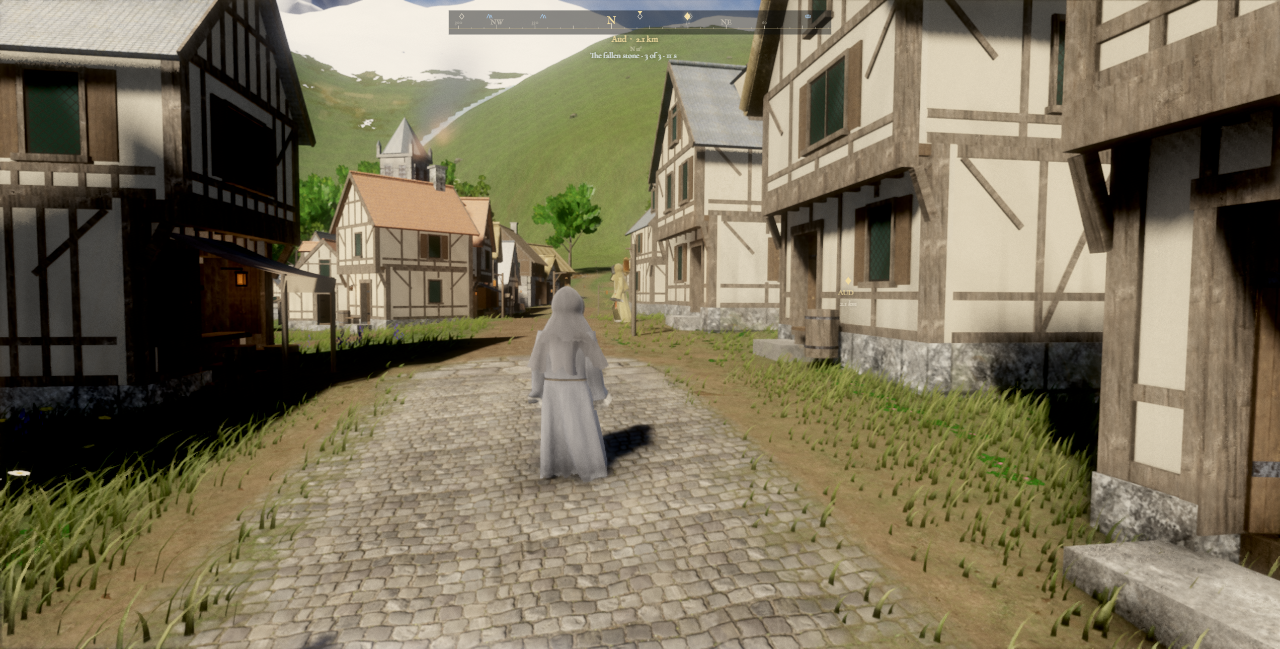
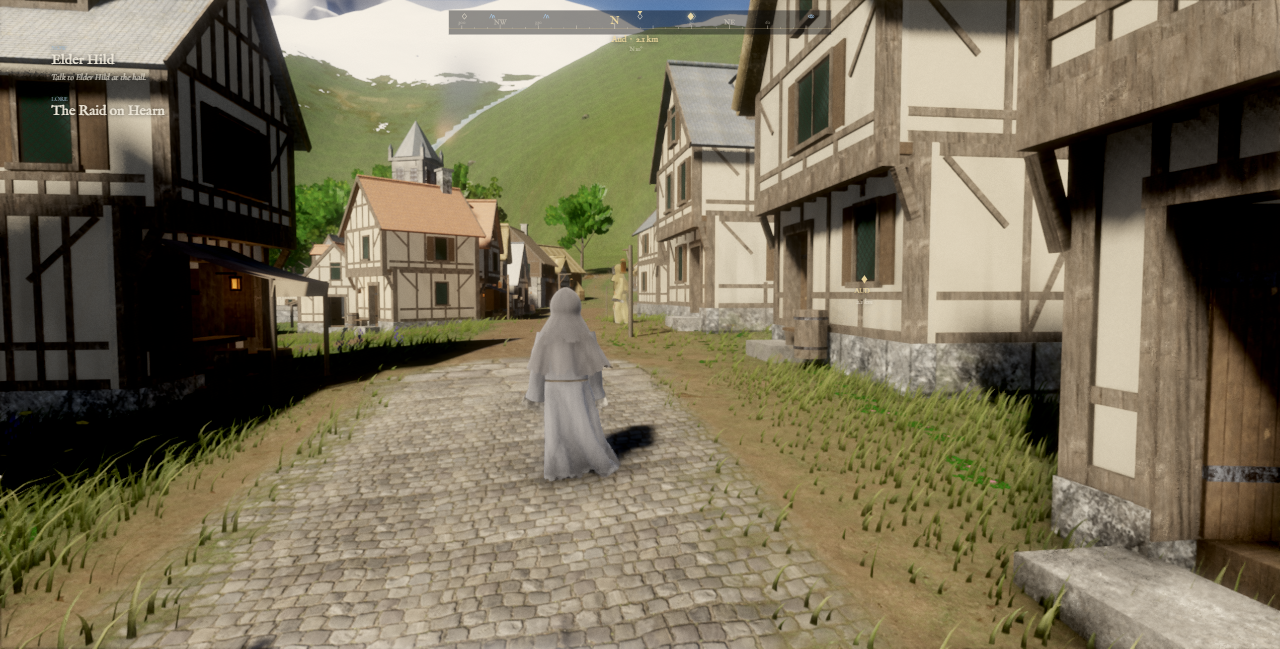
feat: quest direction on the HUD (npc goals, auto-tracking), five meadow side quests, six meadow shrines
Claude-Session: https://claude.ai/code/session_017m4fC7b6q36UDdYEisk35E

diff --git a/src/systems/side/echoes.js b/src/systems/side/echoes.js
@@ -8,7 +8,7 @@ import { GestureAsk, rayDistance, vortexHold } from '../../game/sideQuests.js';
 import { gustTuning } from '../../game/bending/gale.js';
 
 const WORD = { gust: 'Gust (click)', vortex: 'Vortex (hold click)', updraft: 'Updraft (F)' };
-const AIM = 3.6;   // m from the stone a gesture counts as aimed at it
+const AIM = 5.5;   // m from the stone a gesture counts as aimed at it (the view ray meets the ground a little short of a tall stone)
 
 export function addEchoes(ctx) {
   const { g, flags, vars, site, seatY, glow } = ctx, { chapter, hud, music, gale, controller, nav, sfx, SFX, arm, capture } = g;
@@ -16,7 +16,7 @@ export function addEchoes(ctx) {
   for (let k = 1; k <= 3; k++) {
     const id = 'side-echo-' + k, pl = ctx.table[id], i = site(id);
     if (!pl || i < 0) return { tick() {} };
-    const s = { id, k, pl, i, ask: new GestureAsk(pl.ask), hold: 0, t: null };
+    const s = { id, k, pl, i, ask: new GestureAsk(pl.ask), hold: 0, armed: true, t: null };
     s.t = { kind: 'stone', id, verb: 'Listen', name: 'Listening Stone', x: pl.pos[0], y: pl.h, z: pl.pos[1], r: 3.6, h: 1.4, onUse: () => listen(s) };
     stones.push(s); g.interactables.push(s.t);
   }
@@ -83,8 +83,10 @@ export function addEchoes(ctx) {
         break;
       }
       if (gale.updraftEvent) gesture('updraft', ctx.dist2(gale.updraftX, gale.updraftZ, s.pl.pos[0], s.pl.pos[1]) < AIM * AIM);
-      s.hold = vortexHold(s.hold, dt, gale.vortexStrength, gale.vortexX, gale.vortexZ, s.pl.pos[0], s.pl.pos[1]);
-      if (s.hold > 1.4) { s.hold = 0; gesture('vortex', true); }
+      // One Vortex is one gesture: it must die away before another counts.
+      if (gale.vortexStrength < 0.3) s.armed = true;
+      s.hold = s.armed ? vortexHold(s.hold, dt, gale.vortexStrength, gale.vortexX, gale.vortexZ, s.pl.pos[0], s.pl.pos[1]) : 0;
+      if (s.hold > 1.4) { s.hold = 0; s.armed = false; gesture('vortex', true); }
       if (cur && !capture) hud.line('echoes', 'Listening Stone: ' + sentence(s) + ' · ' + Math.ceil(s.ask.left) + ' s', s.ask.left < 8);
     },
   };

diff --git a/src/systems/side/glide.js b/src/systems/side/glide.js
@@ -12,7 +12,7 @@ export function addGlide(ctx) {
     const pl = ctx.table['side-ring-' + k]; if (!pl) return { tick() {} };
     rings.push({ x: pl.pos[0], y: pl.y, z: pl.pos[1], r: pl.r }); idx.push(site('side-glide-ring-' + k));
   }
-  const course = new GlideCourse(rings);
+  const course = g.sideCourse = new GlideCourse(rings);
   const start = ctx.table['side-edge'];
   // The compass follows the next ring (its height: the waypoint sits 6 m above the goal's y).
   const goal = { x: 0, z: 0, y: 0, name: '' };

diff --git a/src/game/sideQuests.js b/src/game/sideQuests.js
@@ -63,7 +63,7 @@ export class GestureAsk {
 }
 
 /** Vortex held on a point: counts seconds the column (strength `s`) stands within `reach` m of it. */
-export function vortexHold(acc, dt, strength, vx, vz, x, z, reach = 3.5) {
+export function vortexHold(acc, dt, strength, vx, vz, x, z, reach = 6) {
   return strength > 0.6 && Math.hypot(vx - x, vz - z) < reach ? acc + dt : Math.max(0, acc - dt * 2);
 }
 

diff --git a/PLAN.md b/PLAN.md
@@ -688,6 +688,17 @@ in and never out. Its arena is a ring of standing stones on a hill.
     course off the escarpment with medals, Echo stones that ask for Gale gestures.
 - **Shrines:** 4–8 in the meadow; Echoes: 1–2 new ones with visible effects.
 - Map and journal extend to the meadow (the map already draws from real heights).
+- **Done (2026-10-25, side quests, shrines, HUD direction):** `goal: { npc }` follows a person's live position
+  (also while they walk; home place until made); every step of every quest has a goal (data test); a new
+  goal is tracked by itself and announced ("Now"), the journal can follow a quest, the compass wakes longer on a
+  new goal and shows a double arrow when it is behind. Five errands in `data/quests/meadow-side.json`, mechanics
+  in `src/systems/side/`: The Fen Lamp (Ketil; carried flame by night, wind snuffs it), The Fallen Stone (Orm;
+  three Updrafts), The Flock in the Barley (Dunn; hidden Sedgerunners; barley cloak), The Western Edge (Wyl; six
+  glide rings, medals 30/25/21 s, courier's cloth), The Stones That Listen (Maud; Gust/Vortex/Updraft sequences,
+  Echo of the Turning Wind). Six meadow shrines (five baked + the Green Shrine in Hearn), on the map (new meadow
+  view) and compass. Bots: `tools/bot/side-*.mjs` (HUD painted into bot shots). Open: glide medals were set from the
+  ideal line, not a human run (the bot cannot fly it); the last fight of the barley was cleared by the bot with
+  forced kills (its own Sweeps died to the runners); no pipeline/alloc profile of the new sites yet.
 
 ### M11 — Rain and thunderstorm
 
